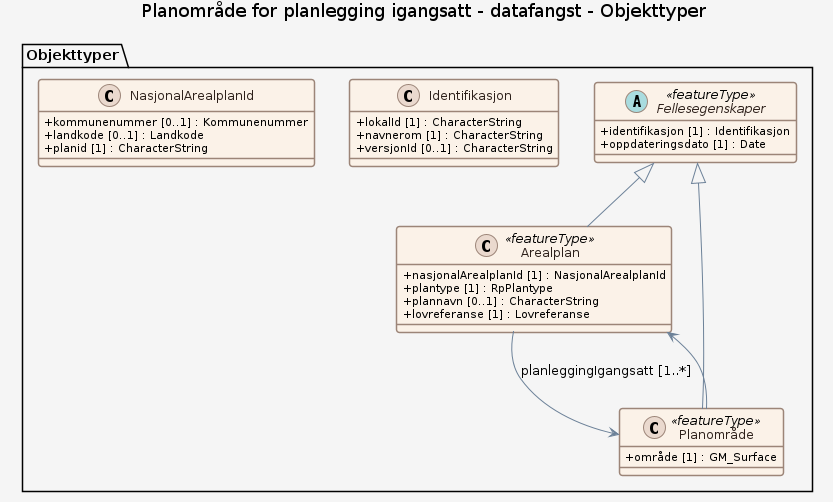
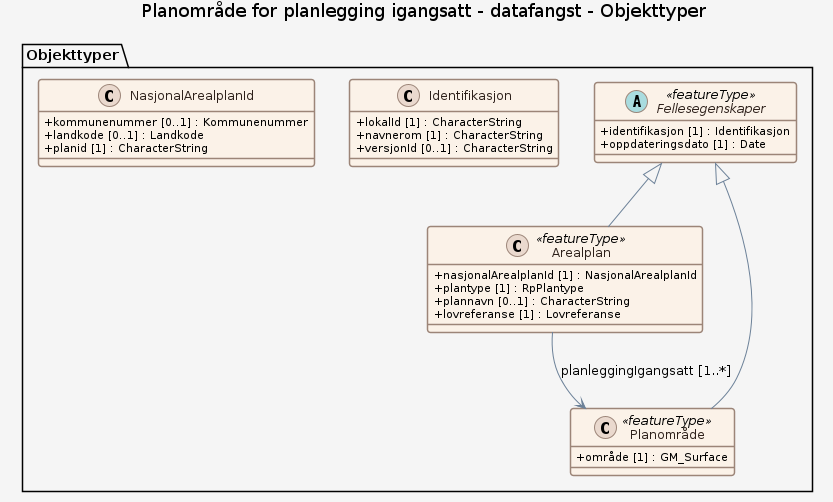
update produktspesifikasjon

diff --git a/produktspesifikasjon/planleggingigangsatt/datafangst/datafangst_feature_catalogue.md b/produktspesifikasjon/planleggingigangsatt/datafangst/datafangst_feature_catalogue.md
@@ -355,6 +355,3 @@ Relasjoner
 
 **Arv**
 Fellesegenskaper
-
-**Assosiasjoner**
-Arealplan

diff --git a/produktspesifikasjon/planleggingigangsatt/datafangst/objektkatalog.md b/produktspesifikasjon/planleggingigangsatt/datafangst/objektkatalog.md
@@ -359,6 +359,3 @@ Relasjoner
 
 **Arv**
 Fellesegenskaper
-
-**Assosiasjoner**
-Arealplan
